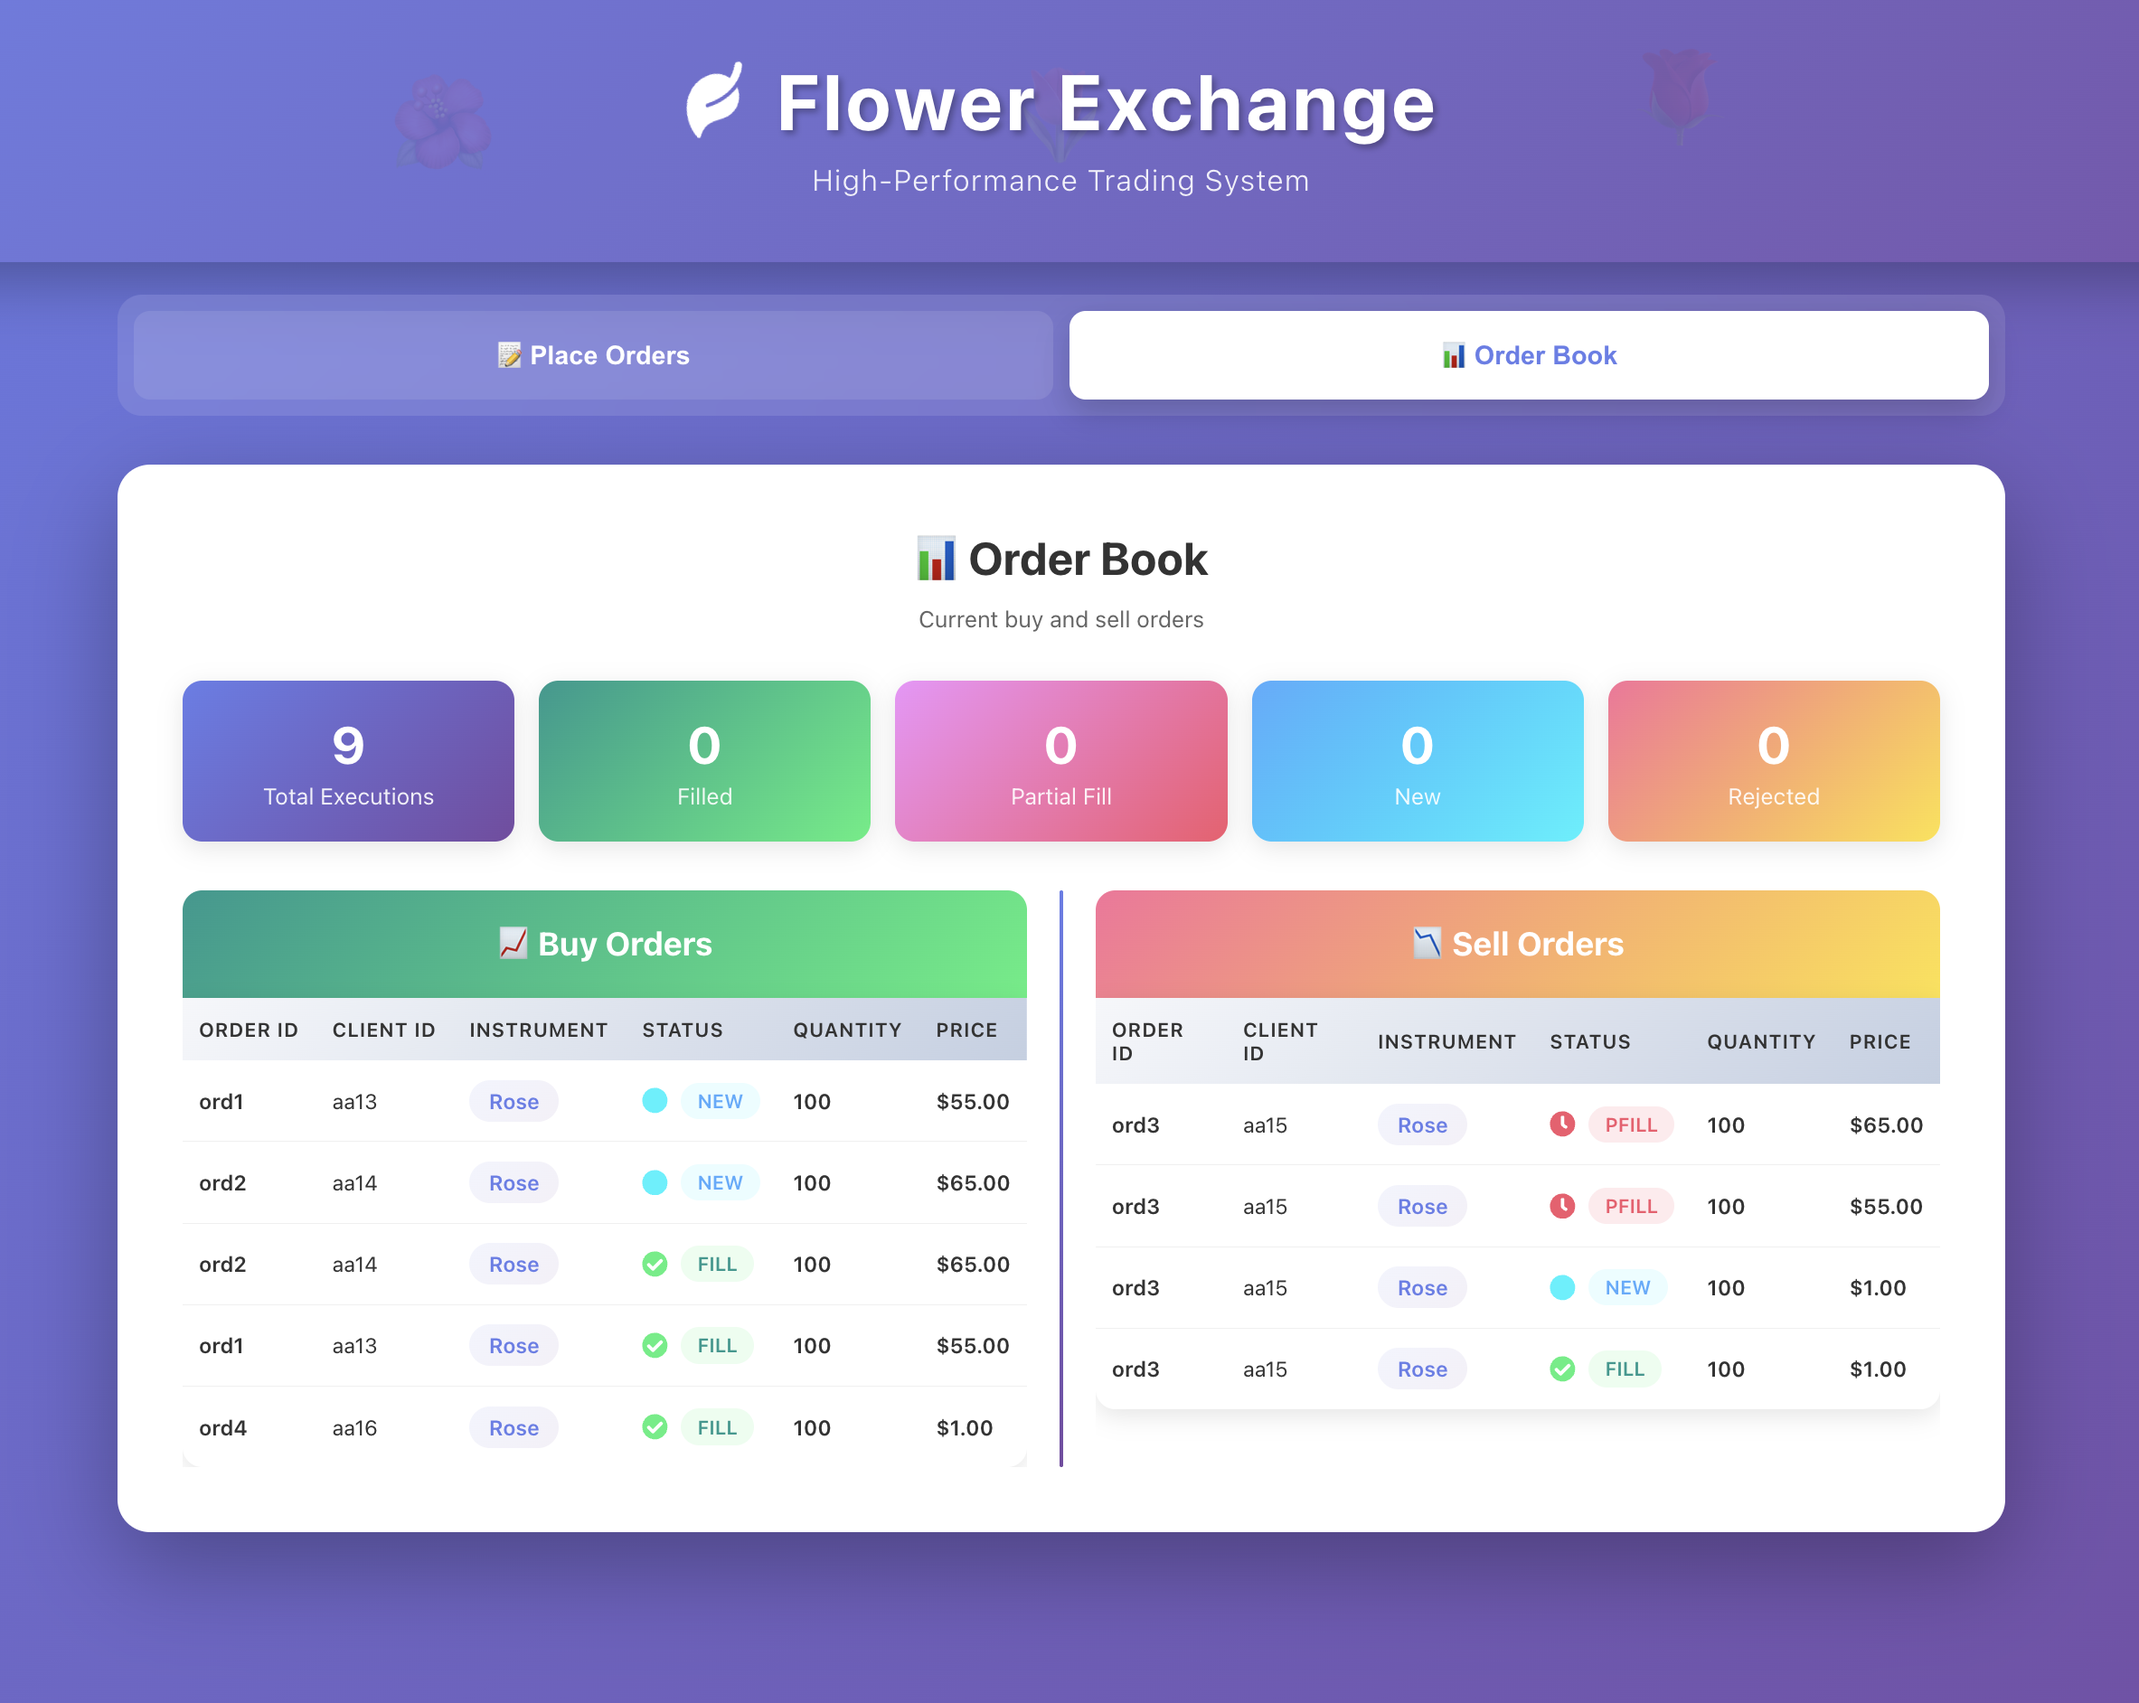
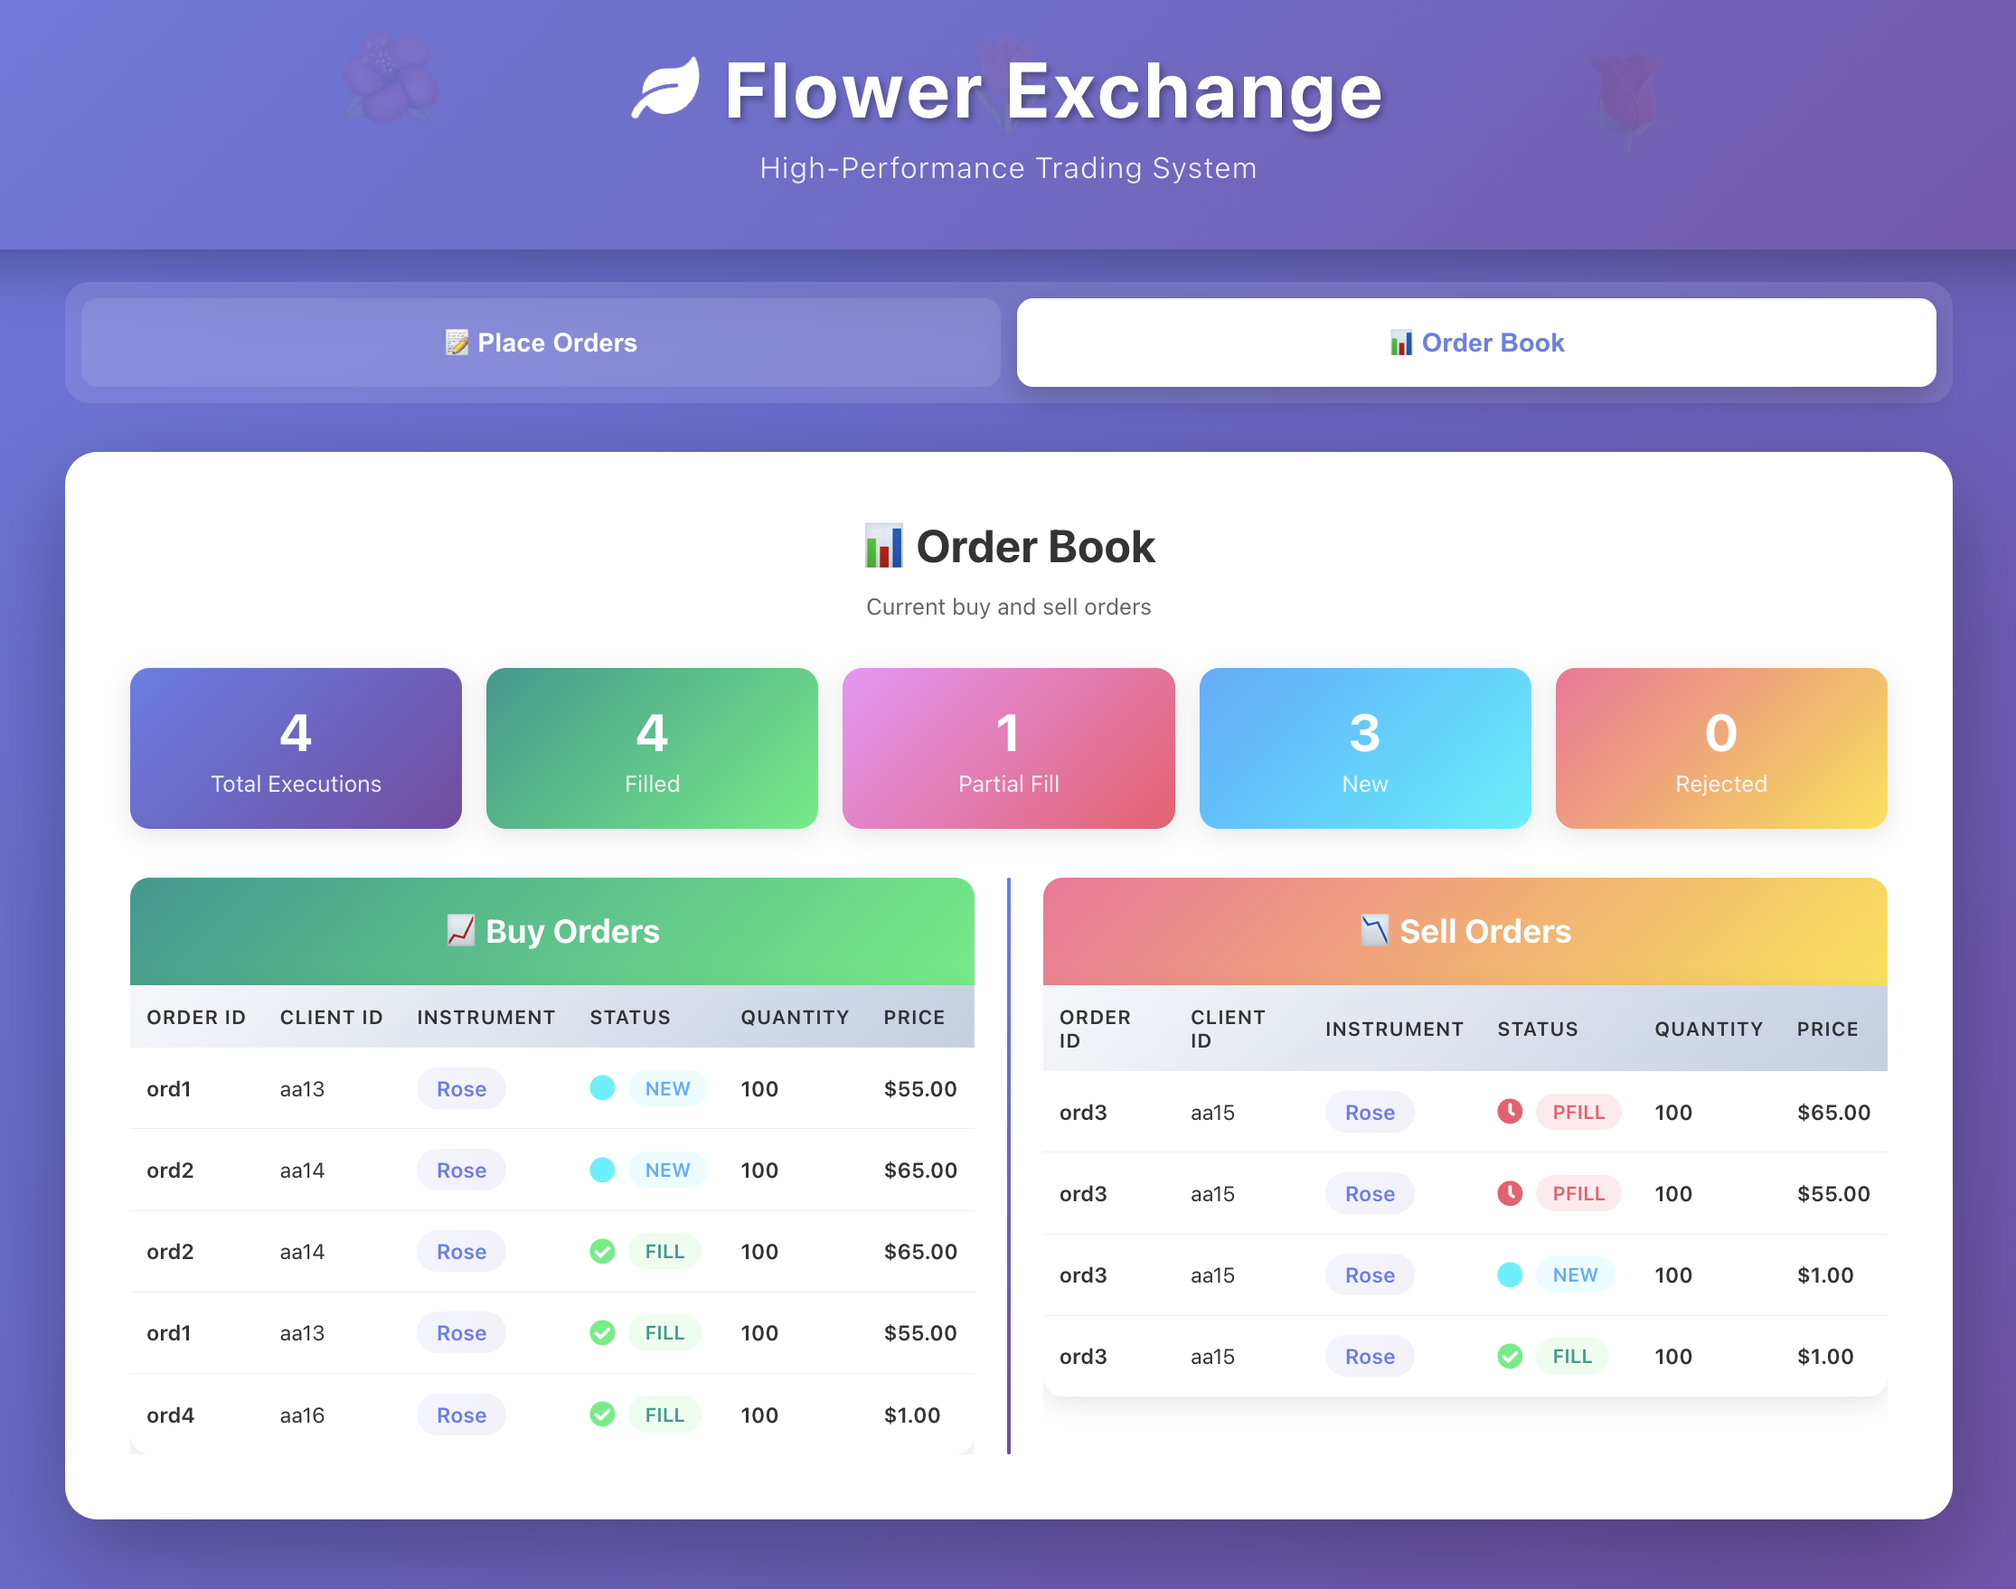
Fix Execution stat bug

diff --git a/frontend/src/components/ExecutionReport.js b/frontend/src/components/ExecutionReport.js
@@ -54,13 +54,41 @@ function ExecutionReport({ report, loading }) {
   const buyOrders = report.filter(r => r[' Side'] === '1' || r[' Side'] === 1);
   const sellOrders = report.filter(r => r[' Side'] === '2' || r[' Side'] === 2);
 
-  // Calculate statistics
+  // Calculate statistics - count all status occurrences across all execution records
+  // Helper function to get status safely with trimming and normalization
+  const getStatus = (row) => {
+    // Try different possible field name variations
+    const status = row[' Execution Status'] || row['Execution Status'] || row['execution status'] || '';
+    return typeof status === 'string' ? status.trim() : String(status).trim();
+  };
+  
+  // Count unique orders
+  const uniqueOrderIds = new Set(report.map(r => r['Order ID']));
+  
+  // Count unique orders by status - an order is counted if it ever had that status
+  const ordersByStatus = {
+    filled: new Set(),
+    partial: new Set(),
+    new: new Set(),
+    rejected: new Set()
+  };
+  
+  report.forEach(row => {
+    const orderId = row['Order ID'];
+    const status = getStatus(row);
+    
+    if (status === 'Fill') ordersByStatus.filled.add(orderId);
+    if (status === 'PFill') ordersByStatus.partial.add(orderId);
+    if (status === 'New') ordersByStatus.new.add(orderId);
+    if (status === 'Rejected') ordersByStatus.rejected.add(orderId);
+  });
+  
   const stats = {
-    total: report.length,
-    filled: report.filter(r => r['Execution Status'] === 'Fill').length,
-    partial: report.filter(r => r['Execution Status'] === 'PFill').length,
-    new: report.filter(r => r['Execution Status'] === 'New').length,
-    rejected: report.filter(r => r['Execution Status'] === 'Rejected').length,
+    total: uniqueOrderIds.size,
+    filled: ordersByStatus.filled.size,
+    partial: ordersByStatus.partial.size,
+    new: ordersByStatus.new.size,
+    rejected: ordersByStatus.rejected.size,
   };
 
   return (

diff --git a/README.md b/README.md
@@ -29,7 +29,7 @@
 
 ---
 
-## 🎯 Overview
+## Overview
 
 Flower Exchange is a complete order matching engine that processes buy and sell orders for flower instruments in real-time. The system implements a **price-time priority algorithm**, comprehensive order validation, and generates detailed execution reports - all in **sub-millisecond** execution time.
 
